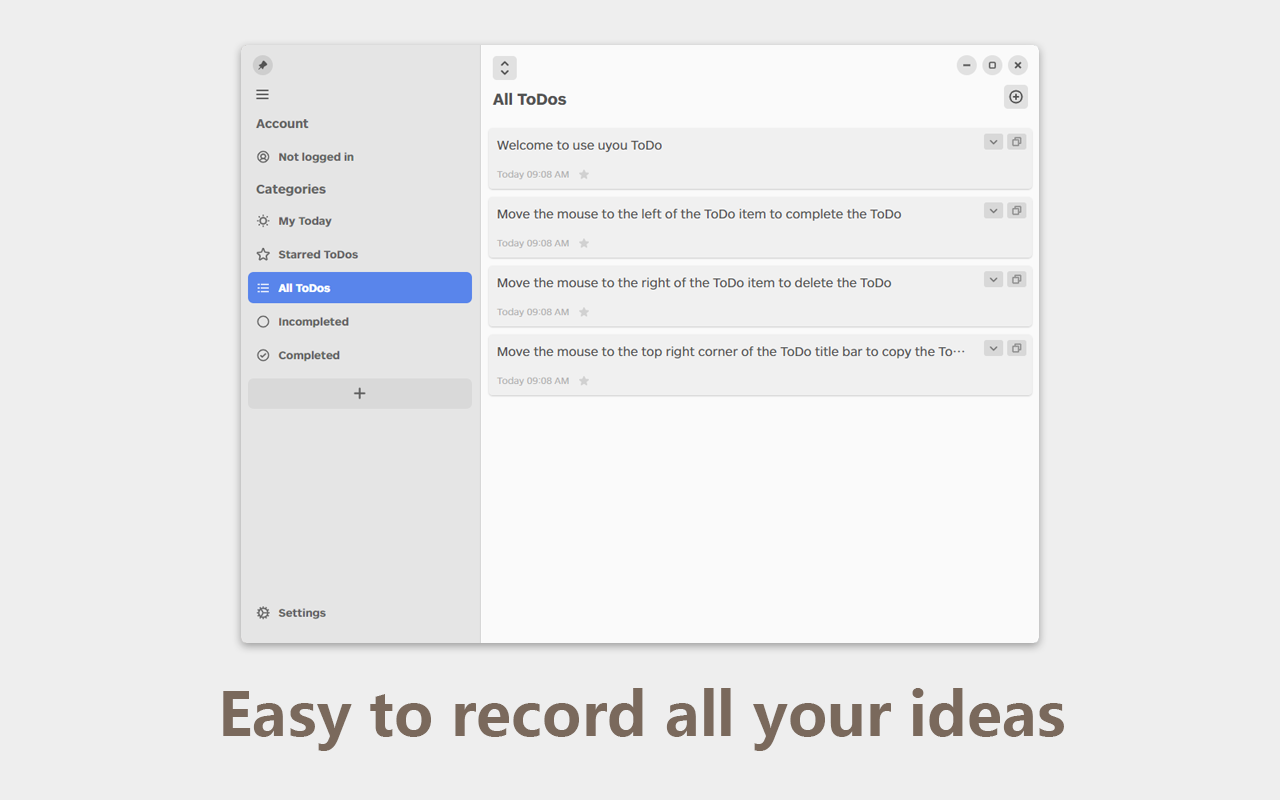
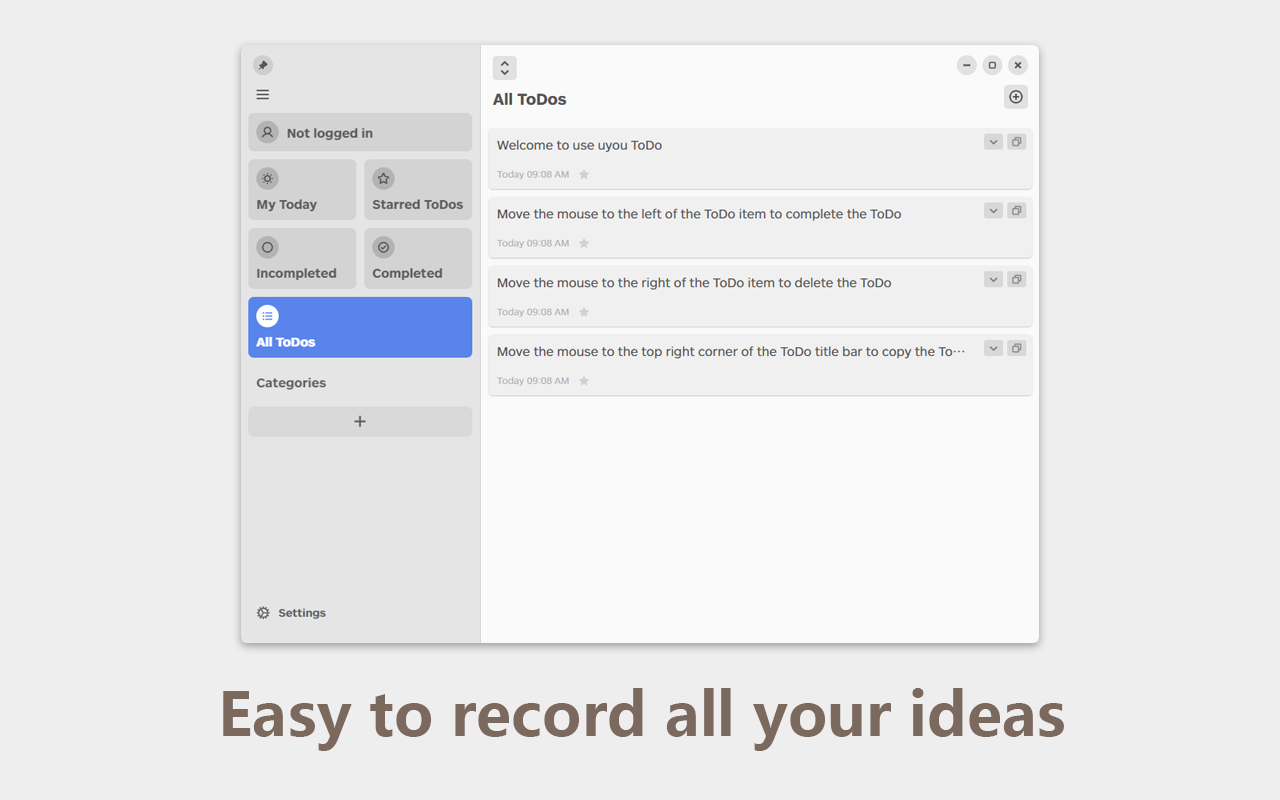
pref: readme

Changed region(s): [[0.1875, 0.125, 0.375, 0.5]]

diff --git a/src/components/ListMenu/TitleMenuItem.tsx b/src/components/ListMenu/TitleMenuItem.tsx
@@ -35,12 +35,20 @@ const TitleMenuItem: SetupFC = () => {
         onClick={() => router.push('/account')}
       >
         <div
-          i-ph:user-circle-bold text-28px mr-10px
-          c={route.name === 'account' && route.query.from !== 'setting'
+          rounded-full p-6px w-16px h-16px mr-10px
+          bg={route.name === 'account' && route.query.from !== 'setting'
             ? 'white group-hover:white'
-            : 'group-hover:white #00000090 dark:#bbb'
+            : 'group-hover:white #333/20 dark:#bbb'
           }
-        />
+        >
+          <div
+            i-ph:user-bold text-16px block
+            c={route.name === 'account' && route.query.from !== 'setting'
+              ? 'primary-d dark:primary-a'
+              : 'group-hover:white #00000090 dark:#555'
+            }
+          />
+        </div>
         <span
           font-bold
           c={route.name === 'account' && route.query.from !== 'setting'
